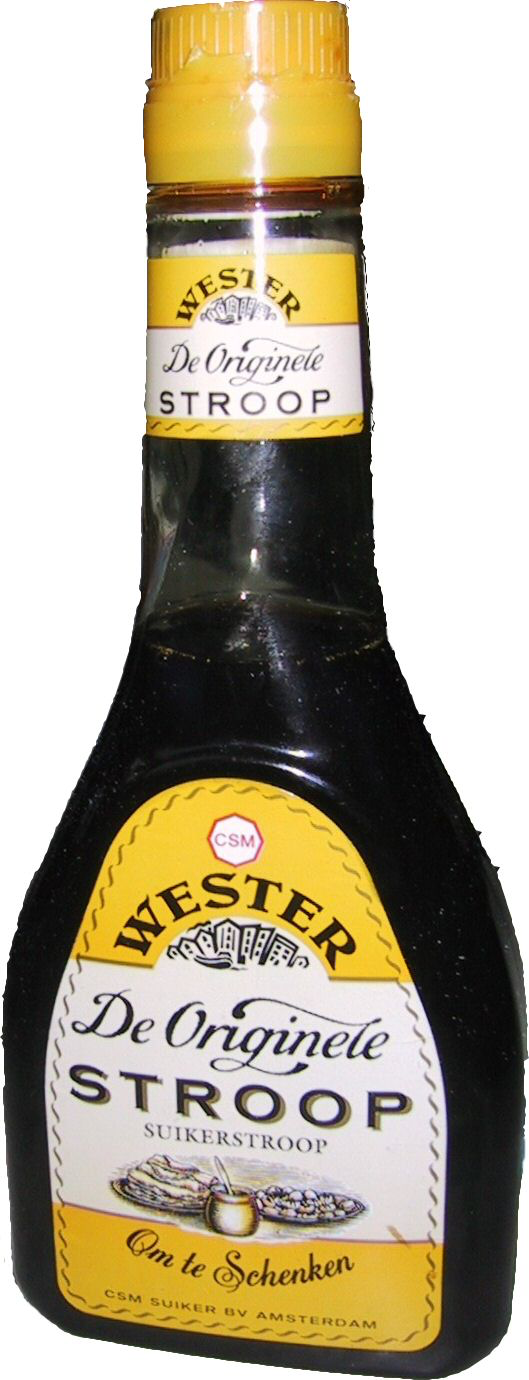
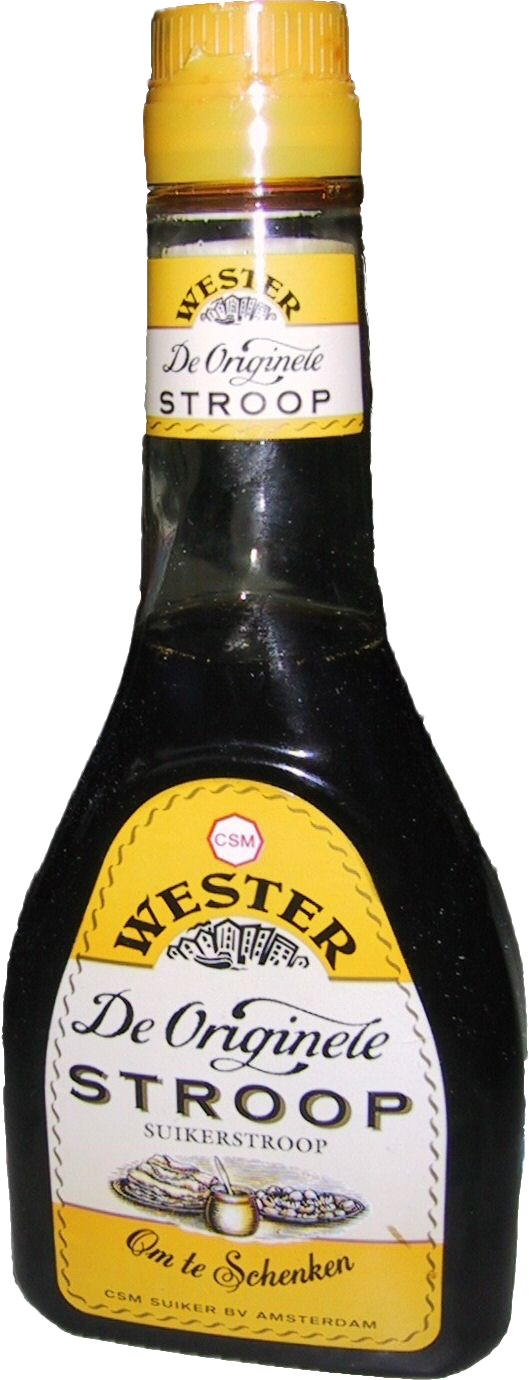
removed background on stroop image

diff --git a/slides/export/index.html b/slides/export/index.html
@@ -73,8 +73,8 @@
     
         <section >
             
-            <h1>Data collection: Stroop task</h1>
-
+            <h2>Data collection: Stroop task</h2>
+<img src="https://github.com/ethanweed/LaCoBra/blob/main/resources/Stroop.png?raw=true" alt="" width="100">
             </section>
     
 
@@ -110,7 +110,7 @@
     
         <section >
             
-            <p>One the next slide…</p>
+            <p>One the first slide…</p>
 <p>read all the words</p>
 
             </section>
@@ -121,7 +121,7 @@
     
         <section >
             
-            <img src="Images/Stroop1_reading_noint.png" alt="" width="700">
+            <img src="https://github.com/ethanweed/LaCoBra/blob/main/resources/Stroop1_reading_noint.png?raw=true" alt="" width="700">
             </section>
     
 
@@ -141,7 +141,7 @@
     
         <section >
             
-            <img src="Images/Stroop2_naming_int.png" alt="" width="700">
+            <img src="https://github.com/ethanweed/LaCoBra/blob/main/resources/Stroop2_naming_int.png?raw=true" alt="" width="700">
             </section>
     
 
@@ -161,7 +161,7 @@
     
         <section >
             
-            <img src="Images/Stroop3_naming_noint.png" alt="" width="700">
+            <img src="https://github.com/ethanweed/LaCoBra/blob/main/resources/Stroop3_naming_noint.png?raw=true" alt="" width="700">
             </section>
     
 
@@ -181,7 +181,16 @@
     
         <section >
             
-            <img src="Images/Stroop4_reading_int.png" alt="" width="700">
+            <img src="https://github.com/ethanweed/LaCoBra/blob/main/resources/Stroop4_reading_int.png?raw=true" alt="" width="700">
+            </section>
+    
+
+
+
+    
+        <section >
+            
+            
             </section>
     
 

diff --git a/slides/Lab_01_Stroop.md b/slides/Lab_01_Stroop.md
@@ -9,6 +9,8 @@ customTheme: "custom-styles"
 
 # Data collection: Stroop task
 
+<img src="https://github.com/ethanweed/LaCoBra/blob/main/resources/Stroop.png?raw=true" alt="" width="700">
+
 ---
 
 Each person does all 4 tasks, then on to the next person
@@ -24,13 +26,13 @@ Each person does all 4 tasks, then on to the next person
 
 ---
 
-One the next slide...
+One the first slide...
 
 read all the words
 
 ---
 
-<img src="Images/Stroop1_reading_noint.png" alt="" width="700">
+<img src="https://github.com/ethanweed/LaCoBra/blob/main/resources/Stroop1_reading_noint.png?raw=true" alt="" width="700">
 
 
 ---
@@ -41,7 +43,7 @@ say the color that the words are printed in
 
 ---
 
-<img src="Images/Stroop2_naming_int.png" alt="" width="700">
+<img src="https://github.com/ethanweed/LaCoBra/blob/main/resources/Stroop2_naming_int.png?raw=true" alt="" width="700">
 
 
 ---
@@ -52,7 +54,7 @@ say the color that the symbols are printed in
 
 ---
 
-<img src="Images/Stroop3_naming_noint.png" alt="" width="700">
+<img src="https://github.com/ethanweed/LaCoBra/blob/main/resources/Stroop3_naming_noint.png?raw=true" alt="" width="700">
 
 
 ---
@@ -63,10 +65,15 @@ read all the words
 
 ---
 
-<img src="Images/Stroop4_reading_int.png" alt="" width="700">
+<img src="https://github.com/ethanweed/LaCoBra/blob/main/resources/Stroop4_reading_int.png?raw=true" alt="" width="700">
 
 
 ---
+
+
+
+---
+
 
 ## References {#references}
 
